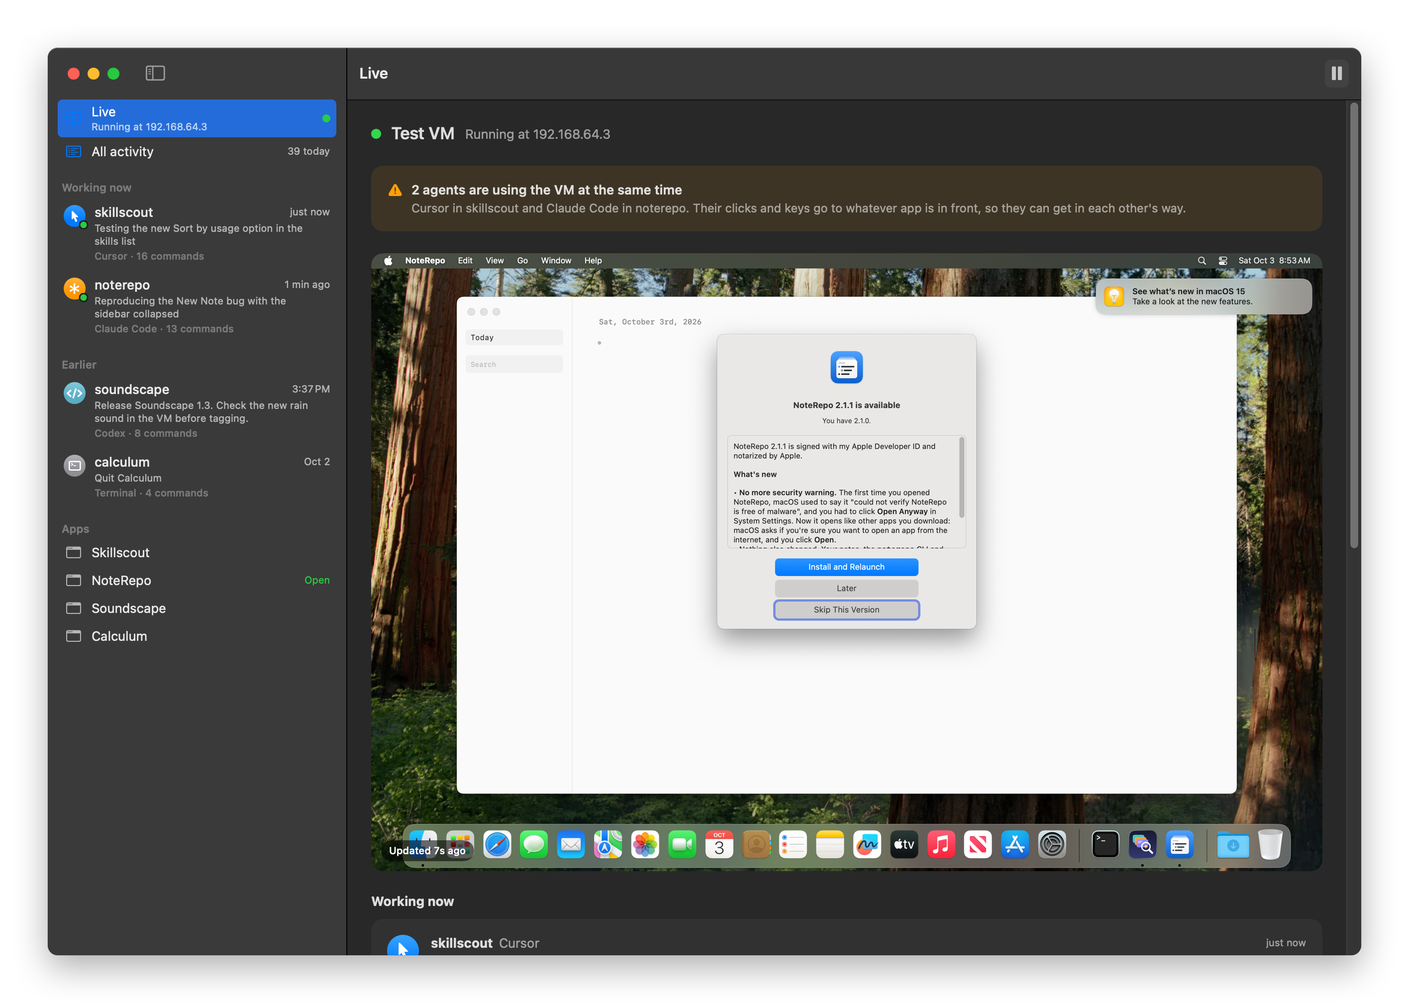
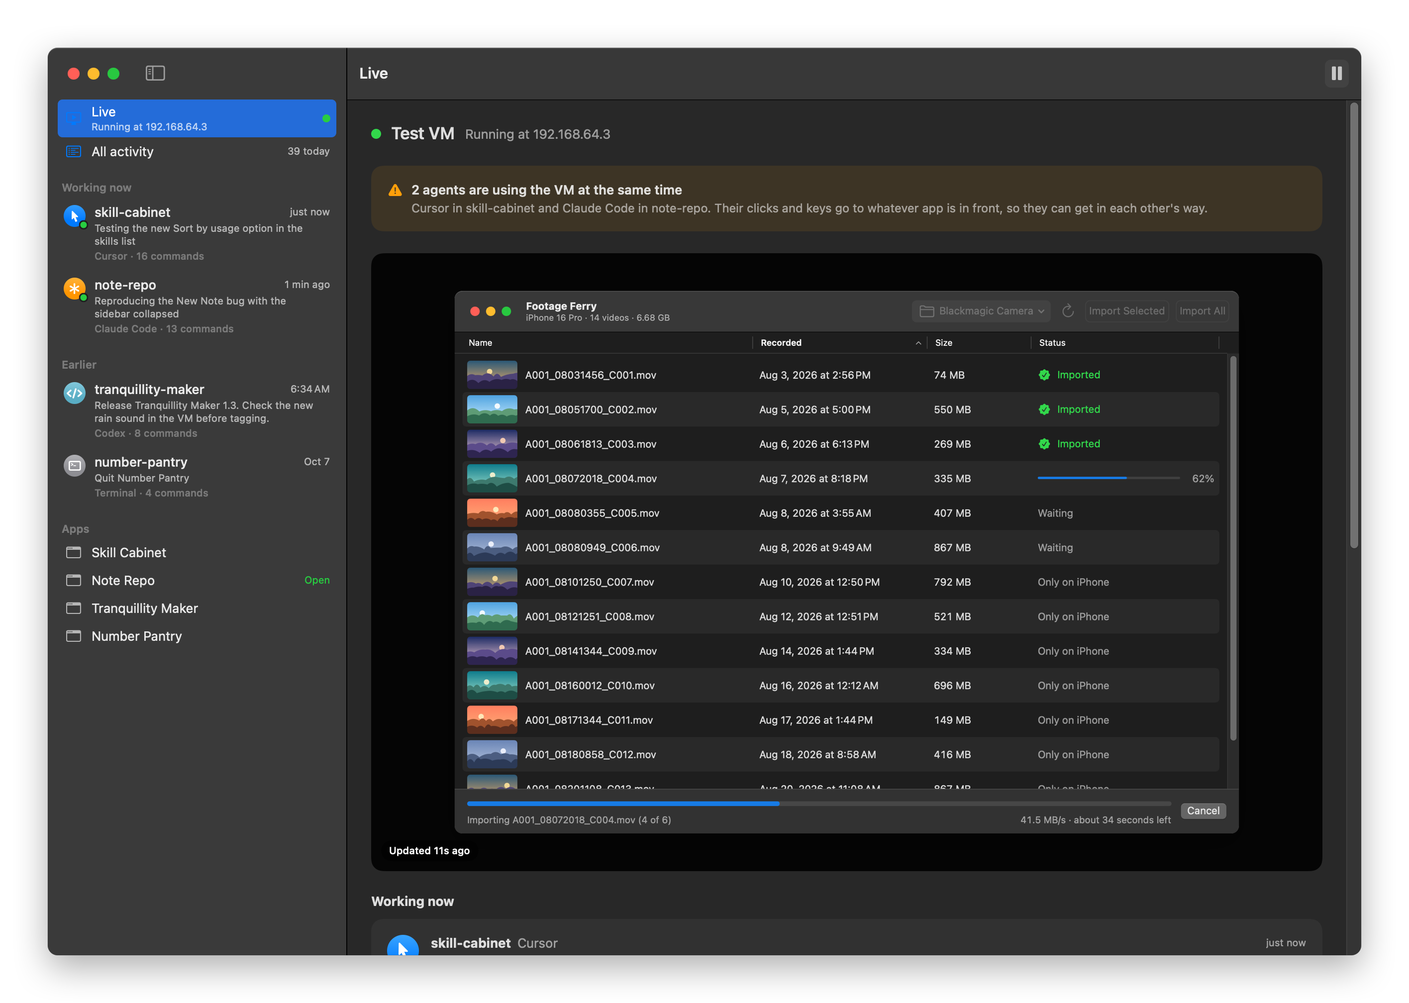
Rename app to VM Peek

diff --git a/Scripts/screenshot.swift b/Scripts/screenshot.swift
@@ -1,4 +1,4 @@
-// Captures the real VM Monitor window in light and dark: the Live view into screenshot-<appearance>.png,
+// Captures the real VM Peek window in light and dark: the Live view into screenshot-<appearance>.png,
 // and a chat with one of its screenshots open into chat-<appearance>.png.
 // Scripts/screenshot.sh compiles it with the app's sources in place of the @main file and runs it in the
 // test VM, with the made-up history from Scripts/sample-activity.py.
@@ -20,7 +20,7 @@ enum Demo {
     model.vmState = .running(address: "192.168.64.3")
     model.screen = NSImage(contentsOf: screen)
     model.screenDate = .now
-    model.runningApps = ["NoteRepo"]
+    model.runningApps = ["Note Repo"]
     return model
   }()
 
@@ -57,7 +57,7 @@ enum Screenshot {
       backing: .buffered,
       defer: false
     )
-    window.title = "VM Monitor"
+    window.title = "VM Peek"
     window.toolbarStyle = .unified
     window.contentView = host
     window.center()

diff --git a/Scripts/render-icon.swift b/Scripts/render-icon.swift
@@ -1,5 +1,5 @@
 #!/usr/bin/env swift
-// Renders the VM Monitor app icon: a display with a pulse line running across its screen and an amber
+// Renders the VM Peek app icon: a display with a pulse line running across its screen and an amber
 // live dot where the line ends, baked into a 1024px squircle on Apple's macOS icon grid.
 // Scripts/build-app.sh turns it into AppIcon.icns.
 // Usage: swift Scripts/render-icon.swift Assets/AppIcon.png

diff --git a/Sources/MonitorCore/Transcripts.swift b/Sources/MonitorCore/Transcripts.swift
@@ -144,7 +144,7 @@ public enum Project {
     return URL(filePath: cwd).lastPathComponent
   }
 
-  /// `/Users/flavio/dev/skillscout` → `~/dev/skillscout`.
+  /// `/Users/flavio/dev/skill-cabinet` → `~/dev/skill-cabinet`.
   public static func tilde(_ path: String, home: String = NSHomeDirectory()) -> String {
     if path == home { return "~" }
     return path.hasPrefix(home + "/") ? "~" + path.dropFirst(home.count) : path

diff --git a/Sources/VMMonitorApp/VMMonitorApp.swift b/Sources/VMMonitorApp/VMMonitorApp.swift
@@ -5,11 +5,11 @@ struct VMMonitorApp: App {
   @State private var model = AppModel()
 
   init() {
-    AppUpdater.shared.start(repository: "flaviocopes/vm-monitor")
+    AppUpdater.shared.start(repository: "flaviocopes/vm-peek")
   }
 
   var body: some Scene {
-    WindowGroup("VM Monitor") {
+    WindowGroup("VM Peek") {
       ContentView()
         .environment(model)
         .frame(minWidth: 960, minHeight: 620)

diff --git a/Scripts/render-banner.swift b/Scripts/render-banner.swift
@@ -8,7 +8,7 @@
 import AppKit
 import SwiftUI
 
-let name = "VM Monitor"
+let name = "VM Peek"
 let tagline = "See what your coding agents\ndo in the test VM."
 let chips = ["Live screen", "Every command", "Who did what"]
 let size = CGSize(width: 1280, height: 560)

diff --git a/Sources/VMMonitorApp/Version.swift b/Sources/VMMonitorApp/Version.swift
@@ -1,4 +1,4 @@
 /// The app's version. `Scripts/build-app.sh` writes it into `Info.plist`, and it must match the release tag.
 enum AppVersion {
-  static let version = "1.1.0"
+  static let version = "1.2.0"
 }

diff --git a/Scripts/sample-activity.py b/Scripts/sample-activity.py
@@ -1,5 +1,5 @@
 #!/usr/bin/env python3
-"""Writes a made-up testvm history into a folder laid out like a home folder, to test VM Monitor in the VM:
+"""Writes a made-up testvm history into a folder laid out like a home folder, to test VM Peek in the VM:
 four chats (Cursor, Claude Code, Codex and someone in a terminal), their transcripts, command output,
 and images.txt, the screenshots the log points to, one "App<TAB>/tmp/testvm/file.png" per line.
 
@@ -56,24 +56,24 @@ def run(chat, ago, command, args=(), took=1.2, status=0, output="", last=None, i
 
 
 cursor = {
-    "agent": "cursor", "session": "7c1e2a4b-5d3f-4e8a-9b6c-1f2e3d4c5b6a", "cwd": "/Users/flavio/dev/skillscout",
-    "prompt": "Add a Sort by usage option to the skills list in Skillscout, so the skills I use most come first. Check it in the test VM.",
+    "agent": "cursor", "session": "7c1e2a4b-5d3f-4e8a-9b6c-1f2e3d4c5b6a", "cwd": "/Users/flavio/dev/skill-cabinet",
+    "prompt": "Add a Sort by usage option to the skills list in Skill Cabinet, so the skills I use most come first. Check it in the test VM.",
 }
 cursor["transcript"] = (
-    "/Users/flavio/.cursor/projects/Users-flavio-dev-skillscout/agent-transcripts/"
+    "/Users/flavio/.cursor/projects/Users-flavio-dev-skill-cabinet/agent-transcripts/"
     f"{cursor['session']}/{cursor['session']}.jsonl"
 )
 claude = {
-    "agent": "claude", "session": "claude-48213", "cwd": "/Users/flavio/dev/noterepo",
+    "agent": "claude", "session": "claude-48213", "cwd": "/Users/flavio/dev/note-repo",
     "prompt": "The New Note button does nothing when the sidebar is collapsed. Fix it and test it in the VM.",
 }
 codex = {
-    "agent": "codex", "session": "01a3f2c4-8b1d-7e20-9c4a-5f6e7d8c9b0a", "cwd": "/Users/flavio/dev/soundscape",
-    "prompt": "Release Soundscape 1.3. Check the new rain sound in the VM before tagging.",
+    "agent": "codex", "session": "01a3f2c4-8b1d-7e20-9c4a-5f6e7d8c9b0a", "cwd": "/Users/flavio/dev/tranquillity-maker",
+    "prompt": "Release Tranquillity Maker 1.3. Check the new rain sound in the VM before tagging.",
 }
-terminal = {"agent": "terminal", "session": "terminal-ttys004", "cwd": "/Users/flavio/dev/calculum"}
+terminal = {"agent": "terminal", "session": "terminal-ttys004", "cwd": "/Users/flavio/dev/number-pantry"}
 
-skillscout_ui = """WINDOW "Skillscout"
+skillscout_ui = """WINDOW "Skill Cabinet"
 AXStaticText "Skills"  center 120,96
 AXPopUpButton [pop up button] = Newest first  center 855,113
 AXButton "Find repeated tasks"  center 976,113
@@ -81,68 +81,68 @@ AXTextField [search text field]  center 1171,114
 AXStaticText "flavioify"  center 300,180
 AXStaticText "mac-test-vm"  center 300,240
 """
-noterepo_ui = """WINDOW "NoteRepo"
+noterepo_ui = """WINDOW "Note Repo"
 AXButton "Hide Sidebar"  center 64,60
 AXButton "New Note"  center 120,60
 AXTextArea [text entry area]  center 760,420
 """
-soundscape_ui = """WINDOW "Soundscape"
+soundscape_ui = """WINDOW "Tranquillity Maker"
 AXButton "Rain"  center 420,380
 AXButton "Forest"  center 620,380
 AXSlider [slider] = 0.6  center 520,520
 """
 
 # Codex, two and a half hours ago: one open timed out, the next one worked.
-run(codex, 9000, "push", ["/Users/flavio/dev/soundscape/Tests/Fixtures/sounds/", "Library/Application Support/Soundscape/sounds/"], took=2.1)
-run(codex, 8990, "open", ["build/Build/Products/Release/Soundscape.app"], took=60, status=143, output="")
-run(codex, 8900, "open", ["build/Build/Products/Release/Soundscape.app"], took=2.9, output="Soundscape is open\n")
-run(codex, 8890, "shot", ["Soundscape"], took=0.6)
-run(codex, 8880, "ui", ["Soundscape"], took=0.9, output=soundscape_ui)
+run(codex, 9000, "push", ["/Users/flavio/dev/tranquillity-maker/Tests/Fixtures/sounds/", "Library/Application Support/Soundscape/sounds/"], took=2.1)
+run(codex, 8990, "open", ["build/Build/Products/Release/Tranquillity Maker.app"], took=60, status=143, output="")
+run(codex, 8900, "open", ["build/Build/Products/Release/Tranquillity Maker.app"], took=2.9, output="Tranquillity Maker is open\n")
+run(codex, 8890, "shot", ["Tranquillity Maker"], took=0.6)
+run(codex, 8880, "ui", ["Tranquillity Maker"], took=0.9, output=soundscape_ui)
 run(codex, 8870, "click", ["420", "380"], took=0.2)
-run(codex, 8860, "shot", ["Soundscape"], took=0.6)
-run(codex, 8850, "quit", ["Soundscape"], took=0.8, output="quit Soundscape\n")
+run(codex, 8860, "shot", ["Tranquillity Maker"], took=0.6)
+run(codex, 8850, "quit", ["Tranquillity Maker"], took=0.8, output="quit Tranquillity Maker\n")
 
 # Someone in a terminal, yesterday.
 run(terminal, 90000, "status", took=0.1, output="running at 192.168.64.3\n")
-run(terminal, 89990, "open", ["dist/Calculum.app"], took=4.4, output="Calculum is open\n")
-run(terminal, 89980, "shot", ["Calculum"], took=0.7)
-run(terminal, 89900, "quit", ["Calculum"], took=0.9, output="quit Calculum\n")
+run(terminal, 89990, "open", ["dist/Number Pantry.app"], took=4.4, output="Number Pantry is open\n")
+run(terminal, 89980, "shot", ["Number Pantry"], took=0.7)
+run(terminal, 89900, "quit", ["Number Pantry"], took=0.9, output="quit Number Pantry\n")
 
-# Cursor, working on Skillscout for the last 25 minutes.
+# Cursor, working on Skill Cabinet for the last 25 minutes.
 run(cursor, 1500, "note", ["Testing the new Sort by usage option in the skills list"], took=0.02)
-run(cursor, 1495, "open", ["build/Build/Products/Debug/Skillscout.app"], took=3.8, output="Skillscout is open\n")
-run(cursor, 1488, "shot", ["Skillscout"], took=0.6)
-run(cursor, 1480, "ui", ["Skillscout"], took=1.1, output=skillscout_ui)
+run(cursor, 1495, "open", ["build/Build/Products/Debug/Skill Cabinet.app"], took=3.8, output="Skill Cabinet is open\n")
+run(cursor, 1488, "shot", ["Skill Cabinet"], took=0.6)
+run(cursor, 1480, "ui", ["Skill Cabinet"], took=1.1, output=skillscout_ui)
 run(cursor, 1472, "click", ["855", "113"], took=0.2)
 run(cursor, 1468, "click", ["840", "160"], took=0.2)
-run(cursor, 1460, "shot", ["Skillscout"], took=0.6)
-run(cursor, 900, "open", ["build/Build/Products/Debug/Skillscout.app"], took=4.1, output="Skillscout is open\n")
-run(cursor, 890, "ui", ["Skillscout"], took=1.0, output=skillscout_ui)
+run(cursor, 1460, "shot", ["Skill Cabinet"], took=0.6)
+run(cursor, 900, "open", ["build/Build/Products/Debug/Skill Cabinet.app"], took=4.1, output="Skill Cabinet is open\n")
+run(cursor, 890, "ui", ["Skill Cabinet"], took=1.0, output=skillscout_ui)
 run(cursor, 884, "click", ["1171", "114"], took=0.2)
 run(cursor, 880, "type", ["flavioify"], took=0.3)
 run(cursor, 876, "key", ["cmd+a"], took=0.2)
-run(cursor, 870, "shot", ["Skillscout"], took=0.6)
-run(cursor, 300, "script", took=0.4, input='tell application "System Events" to tell process "Skillscout"\n  click menu item "Settings…" of menu "Skillscout" of menu bar 1\nend tell')
-run(cursor, 295, "shot", ["Skillscout"], took=0.6)
-run(cursor, 40, "logs", ["Skillscout"], took=0.2, output="Loaded 42 skills from 3 folders\nSorting by usage: 18 skills used this month\n")
+run(cursor, 870, "shot", ["Skill Cabinet"], took=0.6)
+run(cursor, 300, "script", took=0.4, input='tell application "System Events" to tell process "Skill Cabinet"\n  click menu item "Settings…" of menu "Skill Cabinet" of menu bar 1\nend tell')
+run(cursor, 295, "shot", ["Skill Cabinet"], took=0.6)
+run(cursor, 40, "logs", ["Skill Cabinet"], took=0.2, output="Loaded 42 skills from 3 folders\nSorting by usage: 18 skills used this month\n")
 # pid 1 is always alive, so this one shows as running.
-run(cursor, 20, "open", ["build/Build/Products/Debug/Skillscout.app", "--reset-defaults"], running=True, pid=1)
+run(cursor, 20, "open", ["build/Build/Products/Debug/Skill Cabinet.app", "--reset-defaults"], running=True, pid=1)
 
-# Claude Code, on NoteRepo at the same time, so the two overlap.
+# Claude Code, on Note Repo at the same time, so the two overlap.
 run(claude, 600, "note", ["Reproducing the New Note bug with the sidebar collapsed"], took=0.02)
-run(claude, 595, "open", ["dist/mac-arm64/NoteRepo.app"], took=5.2, output="NoteRepo is open\n")
-run(claude, 585, "ui", ["NoteRepo"], took=0.8, output=noterepo_ui)
+run(claude, 595, "open", ["dist/mac-arm64/Note Repo.app"], took=5.2, output="Note Repo is open\n")
+run(claude, 585, "ui", ["Note Repo"], took=0.8, output=noterepo_ui)
 run(claude, 580, "click", ["64", "60"], took=0.2)
 run(claude, 576, "click", ["120", "60"], took=0.2)
-run(claude, 572, "shot", ["NoteRepo"], took=0.7)
-run(claude, 330, "open", ["dist/mac-arm64/NoteRepo.app"], took=4.9, output="NoteRepo is open\n")
+run(claude, 572, "shot", ["Note Repo"], took=0.7)
+run(claude, 330, "open", ["dist/mac-arm64/Note Repo.app"], took=4.9, output="Note Repo is open\n")
 run(claude, 320, "key", ["cmd+n"], took=0.2)
 run(claude, 316, "type", ["Groceries for the weekend"], took=0.4)
-run(claude, 312, "shot", ["NoteRepo"], took=0.3, status=1, output="testvm: no window for NoteRepo\n")
-run(claude, 305, "logs", ["NoteRepo"], took=0.2, output="Uncaught TypeError: Cannot read properties of undefined (reading 'id')\n    at createNote (renderer.js:812)\n")
-run(claude, 70, "open", ["dist/mac-arm64/NoteRepo.app"], took=5.0, output="NoteRepo is open\n")
+run(claude, 312, "shot", ["Note Repo"], took=0.3, status=1, output="testvm: no window for Note Repo\n")
+run(claude, 305, "logs", ["Note Repo"], took=0.2, output="Uncaught TypeError: Cannot read properties of undefined (reading 'id')\n    at createNote (renderer.js:812)\n")
+run(claude, 70, "open", ["dist/mac-arm64/Note Repo.app"], took=5.0, output="Note Repo is open\n")
 run(claude, 60, "key", ["cmd+n"], took=0.2)
-run(claude, 55, "shot", ["NoteRepo"], took=0.7)
+run(claude, 55, "shot", ["Note Repo"], took=0.7)
 
 lines.sort(key=lambda line: line["time"])
 write(os.path.join(logs, "activity.jsonl"), "".join(json.dumps(line, ensure_ascii=False) + "\n" for line in lines))
@@ -150,11 +150,11 @@ write(os.path.join(logs, "activity.jsonl"), "".join(json.dumps(line, ensure_asci
 day = time.strftime("%Y/%m/%d", time.localtime(now - 9000))
 user_query = f"<timestamp>Saturday</timestamp>\n<user_query>\n{cursor['prompt']}\n</user_query>"
 write(
-    os.path.join(out, f".cursor/projects/Users-flavio-dev-skillscout/agent-transcripts/{cursor['session']}/{cursor['session']}.jsonl"),
+    os.path.join(out, f".cursor/projects/Users-flavio-dev-skill-cabinet/agent-transcripts/{cursor['session']}/{cursor['session']}.jsonl"),
     json.dumps({"role": "user", "message": {"content": [{"type": "text", "text": user_query}]}}) + "\n",
 )
 write(
-    os.path.join(out, ".claude/projects/-Users-flavio-dev-noterepo/3fcd5a84-8d05-470d-9c9f-81ef6976ab23.jsonl"),
+    os.path.join(out, ".claude/projects/-Users-flavio-dev-note-repo/3fcd5a84-8d05-470d-9c9f-81ef6976ab23.jsonl"),
     json.dumps({"type": "user", "message": {"role": "user", "content": claude["prompt"]}}) + "\n",
 )
 write(

diff --git a/README.md b/README.md
@@ -1,26 +1,26 @@
-<img src="docs/banner.png" alt="VM Monitor, a Mac app that shows what your coding agents do in the test VM" />
+<img src="docs/banner.png" alt="VM Peek, a Mac app that shows what your coding agents do in the test VM" />
 
-VM Monitor shows what your coding agents do in a macOS test VM. You see the VM's screen live, which agents are using it right now and for what, and every command each of them ran.
+VM Peek shows what your coding agents do in a macOS test VM. You see the VM's screen live, which agents are using it right now and for what, and every command each of them ran.
 
-I let coding agents test my Mac apps in a virtual machine, so they never take over my screen while I work. The catch is that I couldn't see what they did in there, or notice when two of them were in the VM at the same time. VM Monitor is the window into that VM.
+I let coding agents test my Mac apps in a virtual machine, so they never take over my screen while I work. The catch is that I couldn't see what they did in there, or notice when two of them were in the VM at the same time. VM Peek is the window into that VM.
 
-Here's VM Monitor in 30 seconds:
+Here's VM Peek in 30 seconds:
 
-[![Watch the 30-second VM Monitor demo](docs/showreel-poster.jpg)](https://flaviocopes.com/images/vm-monitor/demo.mp4)
+[![Watch the 30-second VM Peek demo](docs/showreel-poster.jpg)](https://flaviocopes.com/images/vm-peek/demo.mp4)
 
 ## Download
 
-Get `VM-Monitor-1.1.0.zip` from the [latest release](https://github.com/flaviocopes/vm-monitor/releases/latest), unzip it, and drag VM Monitor to your Applications folder. It runs on macOS 15 Sequoia or later, on Apple silicon and Intel Macs.
+Get `VM-Peek-1.2.0.zip` from the [latest release](https://github.com/flaviocopes/vm-peek/releases/latest), unzip it, and drag VM Peek to your Applications folder. It runs on macOS 15 Sequoia or later, on Apple silicon and Intel Macs.
 
 ### Opening it the first time
 
-VM Monitor is signed with my Apple Developer ID and notarized by Apple. The first time you open it, macOS asks if you're sure you want to open an app downloaded from the internet. Click **Open**.
+VM Peek is signed with my Apple Developer ID and notarized by Apple. The first time you open it, macOS asks if you're sure you want to open an app downloaded from the internet. Click **Open**.
 
-On a work laptop you might not be able to install apps in `/Applications`. You can keep VM Monitor in the `Applications` folder inside your home folder instead.
+On a work laptop you might not be able to install apps in `/Applications`. You can keep VM Peek in the `Applications` folder inside your home folder instead.
 
 ### Updates
 
-Once a day, VM Monitor asks GitHub whether there's a newer version. When there is, it shows what's new, and **Install and Relaunch** puts it in place of the old one. **VM Monitor → Check for Updates…** checks right away.
+Once a day, VM Peek asks GitHub whether there's a newer version. When there is, it shows what's new, and **Install and Relaunch** puts it in place of the old one. **VM Peek → Check for Updates…** checks right away.
 
 To turn off the daily check, run this in Terminal:
 
@@ -30,7 +30,7 @@ defaults write com.flaviocopes.vm-monitor AppUpdaterAutomaticChecks -bool false
 
 ## Set up the test VM
 
-VM Monitor watches a VM driven by [testvm](https://github.com/flaviocopes/testvm), a shell script with its own repo. Agents use it to open, screenshot and click through your app in the VM, and it logs every command they run. The VM runs under [Tart](https://tart.run), which needs an Apple silicon Mac.
+VM Peek watches a VM driven by [testvm](https://github.com/flaviocopes/testvm), a shell script with its own repo. Agents use it to open, screenshot and click through your app in the VM, and it logs every command they run. The VM runs under [Tart](https://tart.run), which needs an Apple silicon Mac.
 
 Install Tart, then put `testvm` somewhere in your `PATH`:
 
@@ -56,7 +56,7 @@ or click through it on this Mac. Do all of that in the test VM with `testvm`.
 Start with `testvm note` to say what you're testing.
 ```
 
-To test on a real Mac instead, like a Mac mini on your network, put `TEST_HOST=mini.local` and `TEST_USER=<you>` in `~/.config/testvm/config`. `testvm` and VM Monitor both use it. The [testvm README](https://github.com/flaviocopes/testvm#test-on-another-mac) shows how to set up that Mac, and has an agent skill for `testvm`.
+To test on a real Mac instead, like a Mac mini on your network, put `TEST_HOST=mini.local` and `TEST_USER=<you>` in `~/.config/testvm/config`. `testvm` and VM Peek both use it. The [testvm README](https://github.com/flaviocopes/testvm#test-on-another-mac) shows how to set up that Mac, and has an agent skill for `testvm`.
 
 ## Features
 
@@ -80,7 +80,7 @@ To test on a real Mac instead, like a Mac mini on your network, put `TEST_HOST=m
 
 ## Privacy
 
-VM Monitor reads files on your Mac: the log `testvm` writes in `~/Library/Logs/testvm`, and the first message of each agent chat, from Cursor's, Codex's and Claude Code's own transcript folders. It connects to the VM over SSH, with `testvm`'s key, to grab its screen and list the open apps. It never clicks, types or opens anything in the VM. Once a day, it asks GitHub whether there's a newer version of VM Monitor, and it downloads one only when you click **Install and Relaunch**. There are no accounts.
+VM Peek reads files on your Mac: the log `testvm` writes in `~/Library/Logs/testvm`, and the first message of each agent chat, from Cursor's, Codex's and Claude Code's own transcript folders. It connects to the VM over SSH, with `testvm`'s key, to grab its screen and list the open apps. It never clicks, types or opens anything in the VM. Once a day, it asks GitHub whether there's a newer version of VM Peek, and it downloads one only when you click **Install and Relaunch**. There are no accounts.
 
 ## Build it from source
 
@@ -91,7 +91,7 @@ swift test
 Scripts/build-app.sh
 ```
 
-The app is in `dist/VM Monitor.app`. To build the release zip, run:
+The app is in `dist/VM Peek.app`. To build the release zip, run:
 
 ```sh
 Scripts/build-release.sh
@@ -99,11 +99,8 @@ Scripts/build-release.sh
 
 It builds a universal app and zips it into `dist/`. With my Developer ID certificate in the keychain it signs and notarizes the app. Everywhere else it signs it ad hoc, so your copy is signed ad hoc. A copy you build yourself opens without a warning on your Mac.
 
-If you send it to another Mac, macOS says it "could not verify VM Monitor is free of malware". Click **Done**, then go to **System Settings → Privacy & Security** and click **Open Anyway**, or remove the quarantine flag in Terminal:
+If you send it to another Mac, macOS says it "could not verify VM Peek is free of malware". Click **Done**, then go to **System Settings → Privacy & Security** and click **Open Anyway**.
 
-```sh
-xattr -dr com.apple.quarantine "/Applications/VM Monitor.app"
-```
 
 ## Development
 
@@ -120,7 +117,7 @@ Working with an AI coding agent? Point it at [AGENTS.md](AGENTS.md). It has the 
 {"v":1,"event":"end","id":"20261003-190422-80779","time":1791047062.883,"status":0,"last":"/tmp/testvm/Skillscout-190422.png"}
 ```
 
-It tells the agents apart from their environment. Cursor sets `CURSOR_CONVERSATION_ID` and Codex sets `CODEX_THREAD_ID`. Claude Code sets neither, so `testvm` looks for the `claude` process up the process tree. What a command prints goes to `runs/<id>.txt`. VM Monitor reads the new lines every second, and finds each chat's first prompt in the agent's transcripts to say what it's working on.
+It tells the agents apart from their environment. Cursor sets `CURSOR_CONVERSATION_ID` and Codex sets `CODEX_THREAD_ID`. Claude Code sets neither, so `testvm` looks for the `claude` process up the process tree. What a command prints goes to `runs/<id>.txt`. VM Peek reads the new lines every second, and finds each chat's first prompt in the agent's transcripts to say what it's working on.
 
 ## License
 

diff --git a/AGENTS.md b/AGENTS.md
@@ -1,4 +1,4 @@
-# VM Monitor
+# VM Peek
 
 A SwiftUI Mac app that shows what coding agents do in a macOS test VM. Agents drive the VM with `testvm`, which logs every command. The app reads that log, finds each chat's prompt in the agents' transcripts, and grabs the VM's screen over SSH. A Swift package with no dependencies.
 
@@ -21,8 +21,8 @@ Requirements: macOS 15 or later, Swift 6.2 (Xcode 26).
 
 ```bash
 swift test                                         # must pass before committing
-Scripts/build-app.sh                               # universal dist/VM Monitor.app
-Scripts/build-release.sh                           # signs, notarizes and zips it into dist/VM-Monitor-<version>.zip
+Scripts/build-app.sh                               # universal dist/VM Peek.app
+Scripts/build-release.sh                           # signs, notarizes and zips it into dist/VM-Peek-<version>.zip
 Scripts/screenshot.sh <screen.png> <shots folder>  # docs/screenshot-*.png and docs/chat-*.png, rendered in the VM
 swift Scripts/render-banner.swift                  # docs/banner.png, from docs/screenshot-dark.png
 swift Scripts/render-icon.swift Assets/AppIcon.png # after changing a constant
@@ -32,7 +32,7 @@ Don't open the app on your own screen to check a change. Test it in the VM with 
 
 1. The VM has no Tart and no history. Give it its own SSH key to log into itself, generated inside the VM, and put `TEST_HOST=localhost` in the VM's `~/.config/testvm/config`. Never copy your own `testvm` key into the VM.
 2. Run `Scripts/sample-activity.py /tmp/vm-monitor-sample` and push its `Library/Logs/testvm/`, `.cursor/`, `.claude/` and `.codex/` folders to the VM's home. `images.txt` lists the screenshots the log points to. Push images to those paths in `/tmp/testvm/`.
-3. `testvm open "dist/VM Monitor.app"`. The Live view shows the VM's own screen, with the app inside it.
+3. `testvm open "dist/VM Peek.app"`. The Live view shows the VM's own screen, with the app inside it.
 4. Remove what you added. The VM's home can hold other test data, so delete only your files.
 
 `Scripts/screenshot.sh` does all of this for the README images, and cleans up after itself. Other agents can be using the VM, so pass it images of apps that are already public instead of capturing whatever is on the screen.
@@ -48,3 +48,7 @@ Don't open the app on your own screen to check a change. Test it in the VM with 
 - The updater trusts the GitHub release. Every release needs its `vX.Y.Z` tag, the zip from `Scripts/build-release.sh` attached, and an app version that matches the tag, or the app refuses the update.
 - Releases are signed with Flavio Copes's Developer ID (team `DGFKNTAG99`) with the hardened runtime, and notarized by `Scripts/build-release.sh` when the certificate is in the keychain and a notarytool profile named `notary` exists. CI and forks have no certificate, so the scripts sign ad hoc there and skip notarization.
 - The app isn't sandboxed, because it reads the agents' transcripts and runs `ssh` and `tart`.
+
+## Naming compatibility
+
+The public app name is VM Peek. Keep its existing bundle ID, saved data paths, URL schemes, CLI commands and internal Swift targets so installed copies and agent integrations remain compatible. Use the renamed checkout folder and GitHub repository in new links and build instructions.
